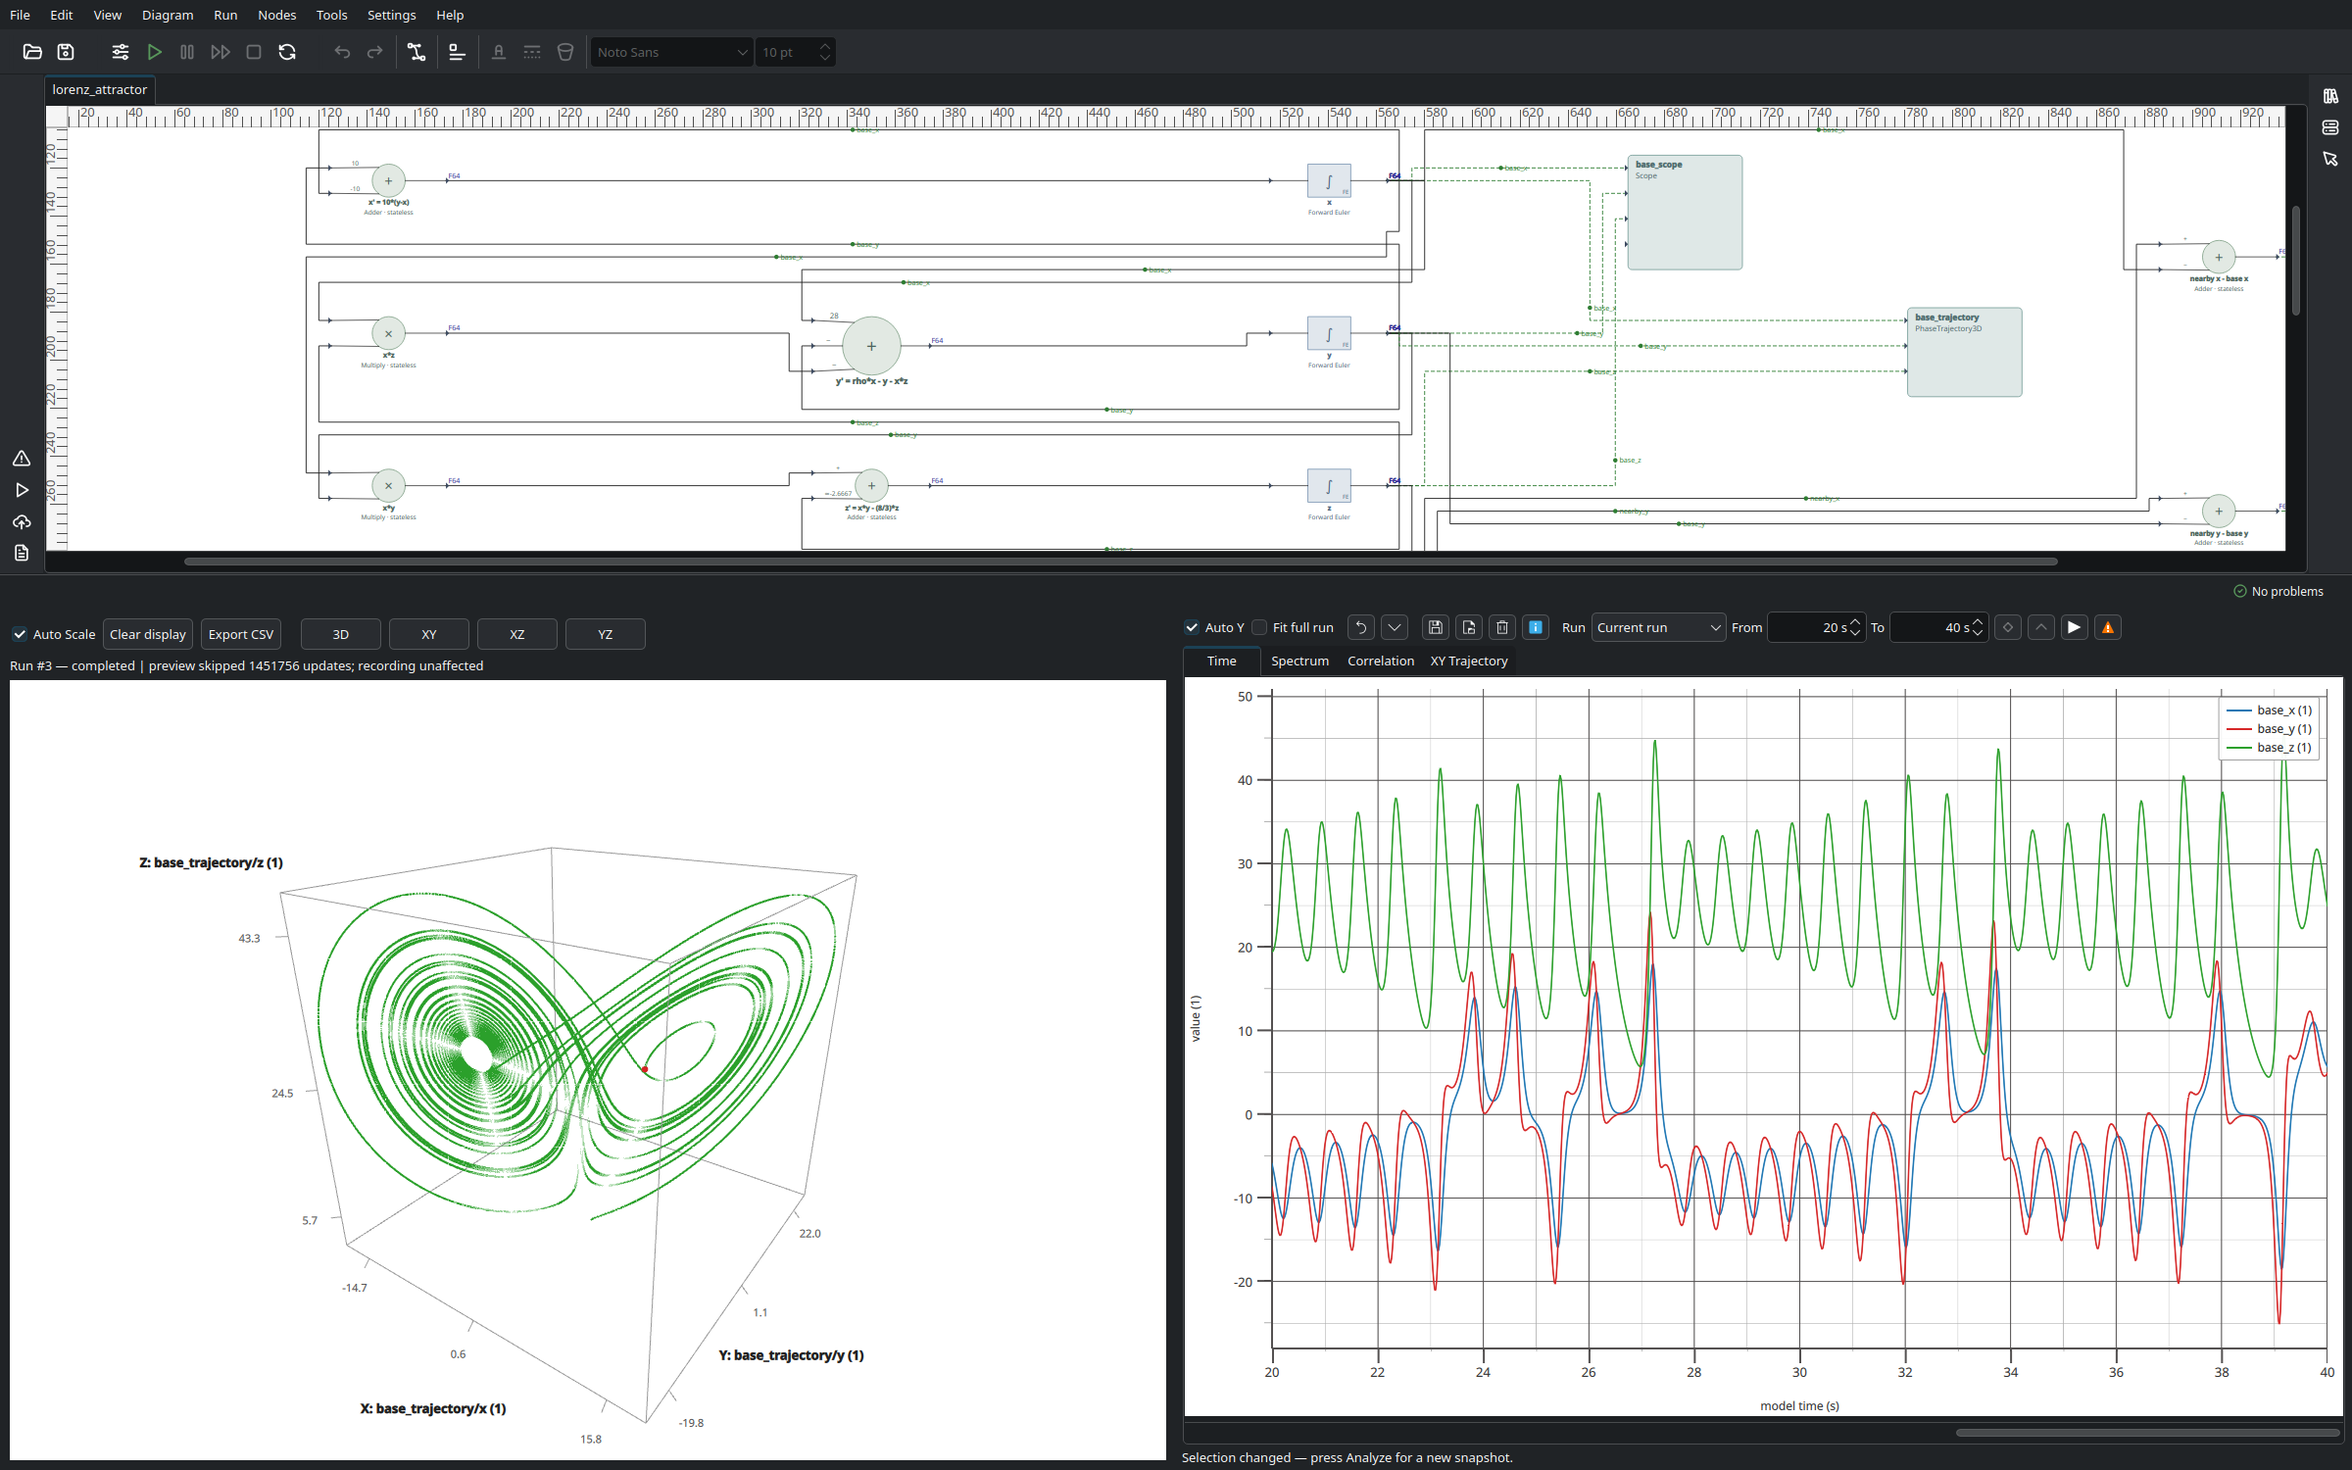
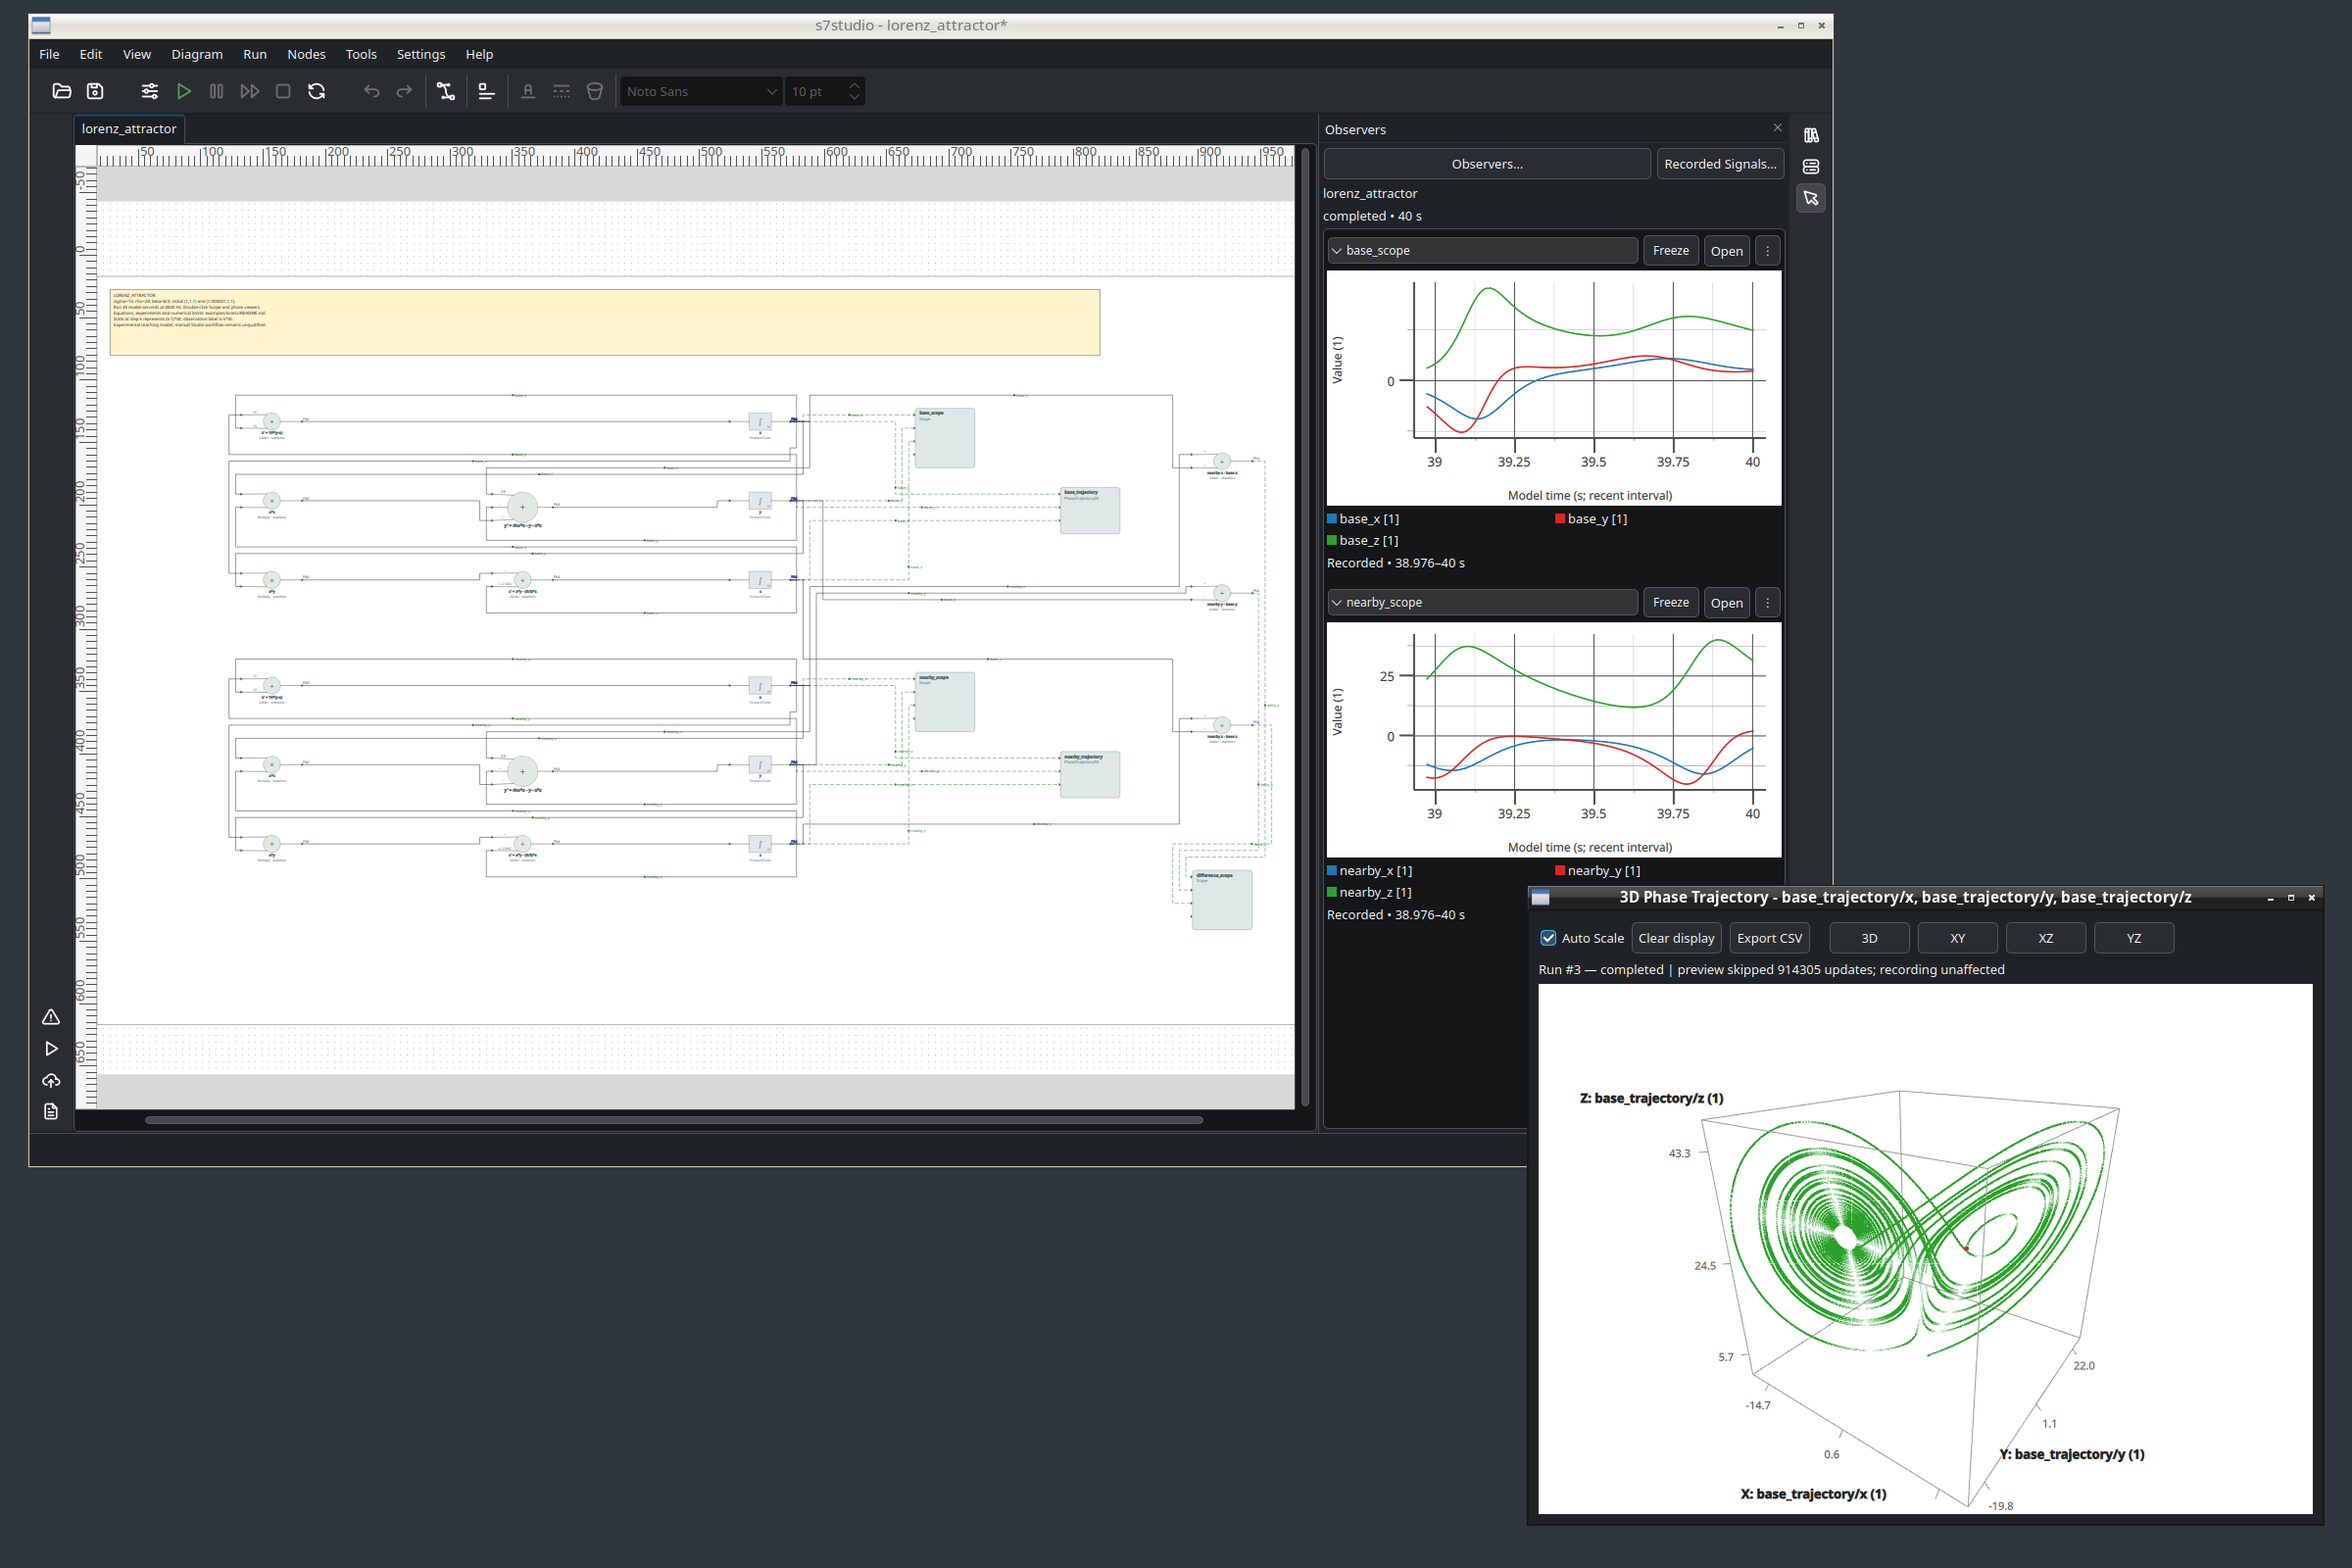
docs: publish approved Lorenz overview with right-hand previews

diff --git a/screenshots/README.md b/screenshots/README.md
@@ -15,19 +15,18 @@ for inspection.
 
 ## README overview: the Lorenz model and its observers
 
-**Layout provisional, 2026-11-18:** the maintainer requested a later layout
-revision. The current image is retained for now; the
-[open follow-up](../s7l2/docs/OPEN_PROBLEMS.md#readme-screenshot-layout--follow-up)
-records the requested improvements.
+**Layout approved, 2026-11-20:** the usual right-hand observer previews remain
+visible, with the full 3D viewer slightly overlapping the main window below them.
 
-![The Lorenz causal block diagram above a 3D phase trajectory and a three-channel Scope, all in one actual Studio session.](07-lorenz-overview.png)
+![Lorenz causal block diagrams with two recorded Scope previews on the right and a floating 3D attractor viewer below them, all in one actual Studio session.](07-lorenz-overview.png)
 
 The main README shows **one captured Studio desktop**: the diagram viewport
-focuses on the `base` network, the **3D Phase Trajectory** displays its butterfly
-attractor, and **Scope** shows `base_x`, `base_y` and `base_z` over model time
-20–40. The bundled example also computes the nearby-initial-condition network;
-the viewport focus does not remove it from the model. The windows were arranged
-before capture; the image is not a montage of separate plots.
+contains the base and nearby-initial-condition networks, and the right-hand
+**Observers** panel shows their three-channel Scope previews over the recent
+recorded interval, **38.976–40 model seconds**. The floating **3D Phase Trajectory**
+window displays the base network's full butterfly attractor. Its position below
+the previews keeps both time plots visible. The windows were arranged before
+capture; the image is not a montage of separate plots.
 
 This is the bundled `lorenz/lorenz_attractor.s7diagram` after a successful
 **40-model-second run at 4 kHz**, with sigma=10, rho=28, beta=8/3 and base initial
@@ -44,30 +43,39 @@ The system comes from Edward N. Lorenz,
 
 ### Overview capture provenance and reproduction
 
-Captured 2026-11-18 from runtime revision `4cc4ef8` plus the publication-only
-layout changes in `s7studio/tests/gui/workflows_test.cpp`. No runtime, numerical
-or viewer implementation was changed for the image. It uses a private
-2400×1500 Xvfb display, Qt 6.11.2 and Mesa llvmpipe. The dedicated Lorenz row
-passed with no failures or skips. Source logs and the original PNG are retained
-in `/tmp/s7-lorenz-readme-artifacts3/` and `/tmp/s7-lorenz-readme-captures3/` for
-this working session.
+Captured 2026-11-20 from source revision `609d38e`, using the Release application
+libraries and a local capture-only extension of the existing GUI workflow.
+No runtime, numerical or viewer implementation was changed for the image.
+It uses a private 2400×1600 Xvfb display with Openbox window decorations,
+Qt 6.11.2 and Mesa llvmpipe. The dedicated Lorenz row passed with no failures
+or skips, including the 160,000-point and recording-integrity checks.
+The maintainer reviewed this exact image before committing it.
 
-From `s7l2/`, reproduce the overview with:
+The local helper, logs and original captures remain outside Git under
+`/var/tmp/s7-readme-layout-2026-11-20/`. The published image is the approved
+`lorenz-overview-proposed.png` from that directory, copied without image edits.
+Its SHA-256 is:
 
-```sh
-cmake --build build-release --target s7studio_gui_workflows_test s7studio_gui_capture --parallel 2
-S7_README_SCREENSHOTS=1 S7_GUI_EXAMPLES=0/1 \
-S7_USABILITY_CAPTURE_DIR=/tmp/s7-lorenz-readme-captures3 \
-python3 -B tools/run_gui_test.py --artifacts /tmp/s7-lorenz-readme-artifacts3 \
-  --capture build-release/s7studio/s7studio_gui_capture --graphics \
-  --screen-size 2400x1500 --timeout 240 \
-  -- build-release/s7studio/s7studio_gui_workflows_test \
-  bundledExamplesRunAndRender:lorenz/lorenz_attractor.s7diagram
+```text
[1 lines of base64/hex data omitted]
 ```
 
-Inspect `lorenz-overview.png` before copying it to `07-lorenz-overview.png`.
-The publication mode selects the recorded Time view and arranges real windows;
-ordinary example tests keep their existing analysis and layout checks.
+To reproduce the composition in Studio:
+
+1. Open `lorenz/lorenz_attractor.s7diagram` and run **40 seconds at 4 kHz**.
+2. Show **Observers** (**Alt+3**) on the right. Choose the `base_scope` and
+   `nearby_scope` previews and leave both expanded until they show recorded data.
+3. Use **Fit Diagram to Window** (**Ctrl+8**) to show both networks.
+4. Open `base_trajectory`, wait for the completed recording, and select **3D**.
+   Adjust the camera zoom so the entire attractor and axis labels fit.
+5. On a 2400×1600 desktop, place the main window near the upper left at
+   approximately **1840×1150**, with an approximately **480-pixel** observer
+   panel. Place the **810×625** 3D window near **(1560, 930)**, below the previews
+   and slightly overlapping the main window. Capture the desktop in one image.
+
+Inspect the resulting PNG before replacing `07-lorenz-overview.png`. The earlier
+`S7_README_SCREENSHOTS` workflow still arranges the old tiled overview; this
+capture's local helper applies the right-hand-preview layout described above.
 
 ## 1. Lorenz attractor: a trajectory in three dimensions
 

diff --git a/README.md b/README.md
@@ -37,10 +37,10 @@ online readings and independent numerical checks. Predict the result, run the
 model, inspect the named signals, then change a parameter and explain what
 happens. Start with [FN01: one sample of memory](s7l2/education/labs/FN01-unit-delay/README.md).
 
-[![The Lorenz system in S7 Studio: its causal block diagram, a three-dimensional butterfly attractor and a Scope showing the x, y and z state signals.](screenshots/07-lorenz-overview.png)](screenshots/07-lorenz-overview.png)
+[![The Lorenz system in S7 Studio: causal block diagrams, recorded signal previews on the right and a floating 3D butterfly attractor viewer.](screenshots/07-lorenz-overview.png)](screenshots/07-lorenz-overview.png)
 
-*Exploring the Lorenz system in S7: an explicit causal model, its
-three-dimensional attractor and recorded state signals.*
+*Exploring the Lorenz system in S7: explicit causal models, recorded signal
+previews on the right and a floating three-dimensional attractor viewer.*
 
 See [the screenshot tour](screenshots/README.md) for actual runs of a Lorenz
 attractor, a controlled buck converter and an AM detector, with their diagrams,

diff --git a/s7l2/docs/OPEN_PROBLEMS.md b/s7l2/docs/OPEN_PROBLEMS.md
@@ -1,20 +1,5 @@
 # S7 Open Problems
 
-## README screenshot layout — follow-up
-
-2026-11-18: the maintainer approved the README's research/engineering positioning
-but does **not** approve the current Lorenz screenshot layout. Keep
-[`07-lorenz-overview.png`](../../screenshots/07-lorenz-overview.png) as a
-provisional image and revisit its composition with the maintainer later.
-
-The replacement should still show a real Studio session with the Lorenz model,
-3D Phase Trajectory and three-channel Scope. Improve diagram legibility at
-README display size, balance the observer windows and avoid clipped content.
-Review the new layout before treating the image as final. Preserve the actual
-run data and capture provenance; no numerical/runtime change is requested.
-The [capture guide](../../screenshots/README.md#readme-overview-the-lorenz-model-and-its-observers)
-records the current image and reproduction command.
-
 ## Mixed observer/full-viewer load — 0.1.1 qualification
 
 The original synthetic published-source check with 12 selected observers, four
